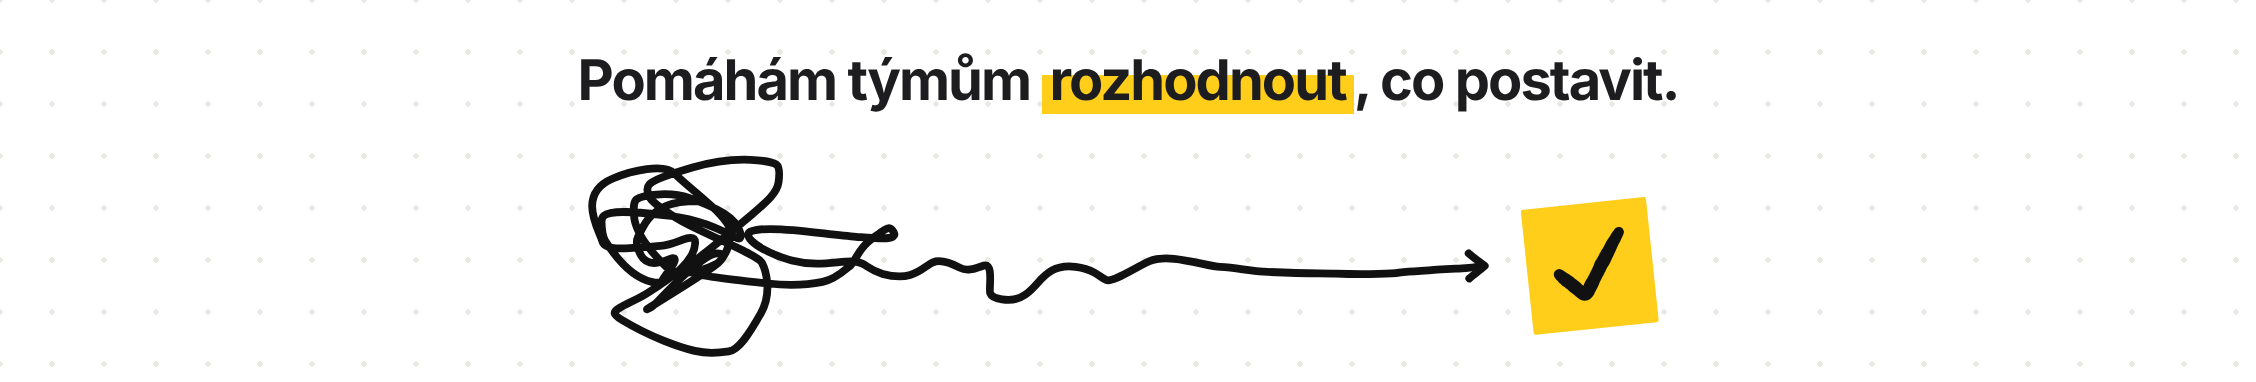
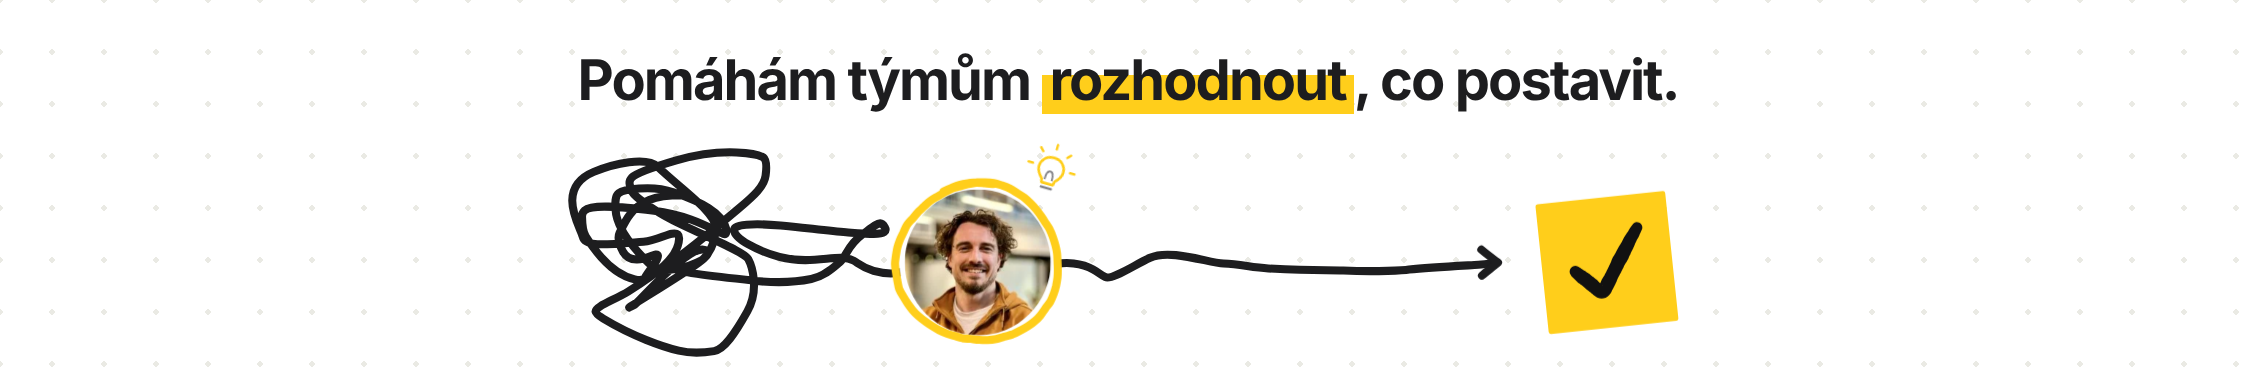
LinkedIn company cover: the full home page drawing with the portrait, sticker in place of the document
Claude-Session: https://claude.ai/code/session_01Ra2rbXUWyeqS39GHjRg1HA

Changed region(s): [[0.2482, 0.3743, 0.7447, 0.9503], [0.4344, 0.4031, 0.4965, 0.4607]]

diff --git a/ds/index.html b/ds/index.html
@@ -455,7 +455,7 @@
     <div class="wrap">
       <p class="eyebrow sig">LinkedIn</p>
       <h2>Profil a firemní stránka.</h2>
-      <p class="lede">Obrázky do hlavičky profilu a pro firemní stránku pavelkroupa.com. Věty a zamotaná čára jsou z úvodu webu, lepítko z loga.</p>
+      <p class="lede">Obrázky do hlavičky profilu a pro firemní stránku pavelkroupa.com. Věty a kresba jsou z úvodu webu, lepítko z loga.</p>
       <h3 style="margin-top:36px">Hlavička profilu</h3>
       <div class="ds-og" style="grid-template-columns:1fr"><figure><img src="/linkedin/linkedin-profil-cs.png" alt="Hlavička profilu na LinkedInu, česky" width="1584" height="396" loading="lazy"><figcaption>/linkedin/linkedin-profil-cs.png &middot; 1584 × 396</figcaption></figure><figure><img src="/linkedin/linkedin-profil-en.png" alt="Hlavička profilu na LinkedInu, anglicky" width="1584" height="396" loading="lazy"><figcaption>/linkedin/linkedin-profil-en.png &middot; 1584 × 396</figcaption></figure></div>
       <h3 style="margin-top:36px">Firemní stránka</h3>
@@ -483,7 +483,7 @@
         <div class="ds-card"><span class="ds-k">Logo pk</span><ul class="ds-files"><li><a href="/logo/pk/pk-svetle-1024.png" download>pk-svetle-1024.png</a><span>32 kB</span></li><li><a href="/logo/pk/pk-svetle-ctverec-1024.png" download>pk-svetle-ctverec-1024.png</a><span>20 kB</span></li><li><a href="/logo/pk/pk-svetle-ctverec-400.png" download>pk-svetle-ctverec-400.png</a><span>7 kB</span></li><li><a href="/logo/pk/pk-svetle-ctverec.svg" download>pk-svetle-ctverec.svg</a><span>7 kB</span></li><li><a href="/logo/pk/pk-svetle.svg" download>pk-svetle.svg</a><span>7 kB</span></li><li><a href="/logo/pk/pk-tmave-1024.png" download>pk-tmave-1024.png</a><span>28 kB</span></li><li><a href="/logo/pk/pk-tmave-ctverec-1024.png" download>pk-tmave-ctverec-1024.png</a><span>20 kB</span></li><li><a href="/logo/pk/pk-tmave-ctverec-400.png" download>pk-tmave-ctverec-400.png</a><span>7 kB</span></li><li><a href="/logo/pk/pk-tmave-ctverec.svg" download>pk-tmave-ctverec.svg</a><span>7 kB</span></li><li><a href="/logo/pk/pk-tmave.svg" download>pk-tmave.svg</a><span>7 kB</span></li></ul></div>
         <div class="ds-card"><span class="ds-k">Lepítko</span><ul class="ds-files"><li><a href="/logo/logo-1024.png" download>logo-1024.png</a><span>31 kB</span></li><li><a href="/logo/logo-512.png" download>logo-512.png</a><span>14 kB</span></li><li><a href="/logo/logo-na-bile-1024.png" download>logo-na-bile-1024.png</a><span>43 kB</span></li><li><a href="/logo/logo-na-cerne-1024.png" download>logo-na-cerne-1024.png</a><span>27 kB</span></li><li><a href="/logo/logo-pk-1024.png" download>logo-pk-1024.png</a><span>35 kB</span></li><li><a href="/logo/logo-pk.svg" download>logo-pk.svg</a><span>8 kB</span></li><li><a href="/logo/logo-stin-1024.png" download>logo-stin-1024.png</a><span>65 kB</span></li><li><a href="/logo/logo.svg" download>logo.svg</a><span>5 kB</span></li></ul></div>
         <div class="ds-card"><span class="ds-k">Ikony</span><ul class="ds-files"><li><a href="/favicon.svg" download>favicon.svg</a><span>5 kB</span></li><li><a href="/favicon.ico" download>favicon.ico</a><span>3 kB</span></li><li><a href="/apple-touch-icon.png" download>apple-touch-icon.png</a><span>3 kB</span></li><li><a href="/icon-192.png" download>icon-192.png</a><span>11 kB</span></li><li><a href="/icon-512.png" download>icon-512.png</a><span>14 kB</span></li><li><a href="/site.webmanifest" download>site.webmanifest</a><span>406 B</span></li></ul></div>
-        <div class="ds-card"><span class="ds-k">LinkedIn</span><ul class="ds-files"><li><a href="/linkedin/linkedin-profil-cs.png" download>linkedin-profil-cs.png</a><span>130 kB</span></li><li><a href="/linkedin/linkedin-profil-en.png" download>linkedin-profil-en.png</a><span>131 kB</span></li><li><a href="/linkedin/linkedin-firma-logo-400.png" download>linkedin-firma-logo-400.png</a><span>7 kB</span></li><li><a href="/linkedin/linkedin-firma-cover-cs.png" download>linkedin-firma-cover-cs.png</a><span>50 kB</span></li><li><a href="/linkedin/linkedin-firma-cover-en.png" download>linkedin-firma-cover-en.png</a><span>48 kB</span></li></ul></div>
+        <div class="ds-card"><span class="ds-k">LinkedIn</span><ul class="ds-files"><li><a href="/linkedin/linkedin-profil-cs.png" download>linkedin-profil-cs.png</a><span>130 kB</span></li><li><a href="/linkedin/linkedin-profil-en.png" download>linkedin-profil-en.png</a><span>131 kB</span></li><li><a href="/linkedin/linkedin-firma-logo-400.png" download>linkedin-firma-logo-400.png</a><span>7 kB</span></li><li><a href="/linkedin/linkedin-firma-cover-cs.png" download>linkedin-firma-cover-cs.png</a><span>99 kB</span></li><li><a href="/linkedin/linkedin-firma-cover-en.png" download>linkedin-firma-cover-en.png</a><span>97 kB</span></li></ul></div>
         <div class="ds-card"><span class="ds-k">Písmo Shantell Sans</span><ul class="ds-files"><li><a href="/assets/fonts/shantell-sans-latin-ext-abd01b55.woff2" download>shantell-sans-latin-ext.woff2</a><span>36 kB</span></li><li><a href="/assets/fonts/shantell-sans-latin-086ca6b5.woff2" download>shantell-sans-latin.woff2</a><span>77 kB</span></li><li><a href="/assets/fonts/shantell-sans-cs-0f694d8f.woff2" download>shantell-sans-cs.woff2</a><span>8 kB</span></li></ul>
           <p style="margin-top:12px">Celá rodina na <a href="https://fonts.google.com/specimen/Shantell+Sans" rel="noopener">Google Fonts</a>, licence SIL OFL 1.1.</p></div>
       </div>
